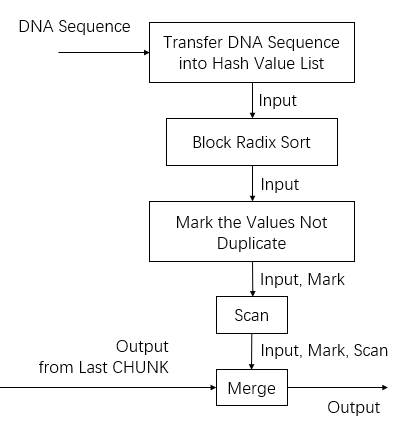
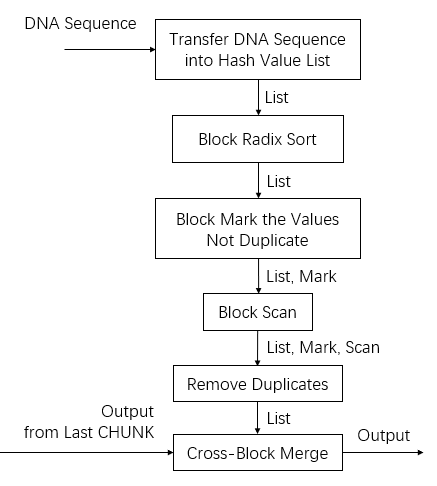
update

Changed region(s): [[0.0, 0.0299, 0.9612, 0.9862], [0.3786, 0.2391, 0.4078, 0.3586], [0.7573, 0.269, 0.8155, 0.2989]]

diff --git a/README.md b/README.md
@@ -4,16 +4,16 @@ It is a project when I was internship at the University of Washington in St. Lou
 
 ## What is MinhashSketch
 
-It provides a complete program which implements a parallel algorithm to get  minhash sketch with DNA sequence as input under [CUDA](http://supercomputingblog.com/cuda-tutorials/) and [CUB](https://nvlabs.github.io/cub/).  
+It's a program which implements a parallel algorithm to get  minhash sketches with DNA sequence as input under [CUDA](http://supercomputingblog.com/cuda-tutorials/) and [CUB](https://nvlabs.github.io/cub/).  
 
-[Minhash](https://en.wikipedia.org/wiki/MinHash) is a technique for quickly estimating how similar two sets are. For More information of similarity and minhash sketch, you can see [Class Note 24](https://classes.engineering.wustl.edu/cse584a/notes/class24.pdf) and [Class Note 25](https://classes.engineering.wustl.edu/cse584a/notes/class25.pdf)
+[Minhash](https://en.wikipedia.org/wiki/MinHash) is a technique for quickly estimating how similar two sets are. For More information of similarity and minhash sketch, you can see [Class Note 24](https://classes.engineering.wustl.edu/cse584a/notes/class24.pdf) and [Class Note 25](https://classes.engineering.wustl.edu/cse584a/notes/class25.pdf) of Prof. Buhler.
 
 ### Steps
 
-In general, the process divides the long DNA into sevelral CHUNKs and cope with them sequentially. For each CHUNK, it will get hash velues, radix sort, mark, scan and merge in GPU. 
+In general, the program divides the long DNA sequence into sevelral CHUNKs and cope with them respectively. For each CHUNK, it will get hash velues, radix sort, mark, scan and merge in GPU. 
 
 <p>
-<img src="./git_picture/Steps1.png" width="400" align=center />
+<img src="./git_picture/Steps1.png" width="360" align=center />
 
 ### Input
 
@@ -29,9 +29,29 @@ The output should be the minhash sketch of input DNA sequences and the similarit
 <pr>
 <img src="./git_picture/running_example1.png" width="1000" align=center />
 
+### File structure
+
+	MinhashSketch
+	|
+	|-- src
+	|   |-- main.cu		  # Main function and help, usage functions
+	|   |-- MinhashSketch.cu   # Key file for generating minhash sketches
+	|   |-- Utils.cu   	  # Some utilities
+	|   |-- Utils.h       
+	|   |-- Hash.cu   	  # Generate hash funtions or random parameters
+	|   |-- Hash.h    	  
+	|   |-- SpookyV2.cu   # SpookyHash function for host
+	|   |-- SpookyV2.h
+	|   |-- SpookyV2_d.cu # SpookyHash function for device
+	|   |-- SpookyV2_d.h
+	|   
+	|-- testing_files     # Save files of DNA sequences
+
+The first line of DNA files should be the file information, followed by the DNA sequence from the second line.
+
 ## How do MinhashSketch work
 
-### Subsequence
+### Get Subsequence
 
 We use a pointer to access sequence, which need noly to record the last base read, and directly assign four bases(A, C, T, G) to four kinds of 2-bit values in binary. 
 If the length of the subsequence exceeds 32 (i.e. one uint64 is not enough to indicate the length of subsequences), we need to use more than one ([k / 32] + 1) uint64 to store subsequences.
